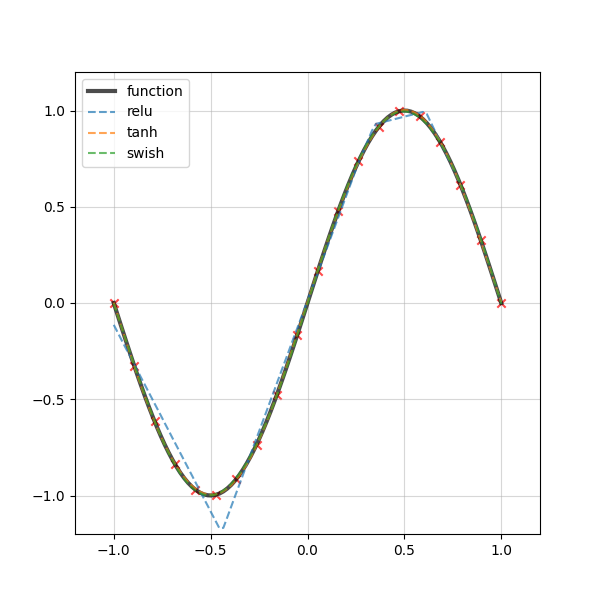
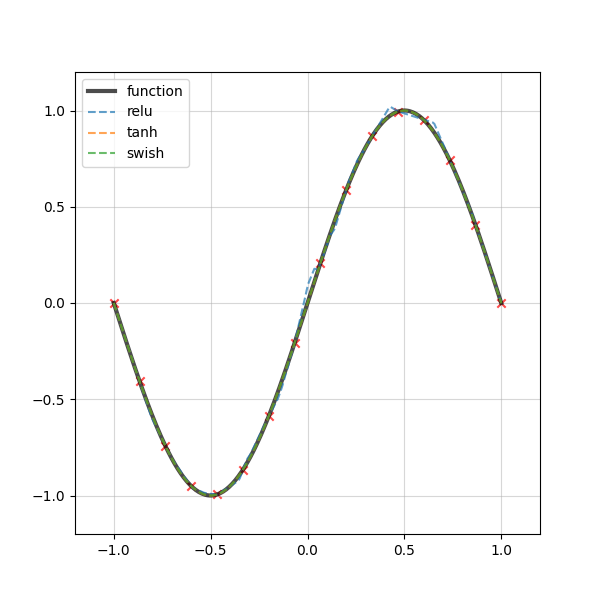
fix params

diff --git a/00_tf2/main.py b/00_tf2/main.py
@@ -17,7 +17,7 @@ def main():
     config_gpu(gpu_flg)
 
     # problem setup
-    p_id = 1
+    p_id = 0
     xmin = -1.
     xmax =  1.
     nx   = 2 ** 8
